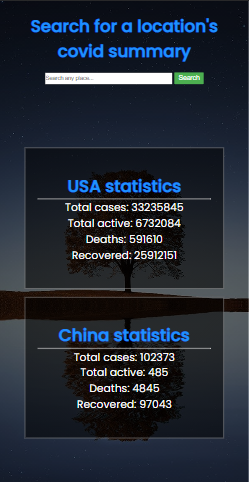
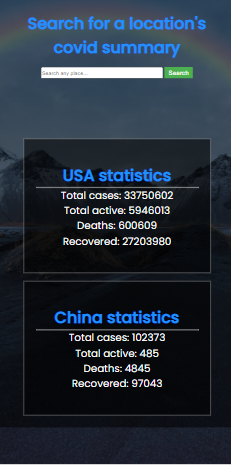
🖌🖌changed color and image
changed link color and background image for a project

diff --git a/css/style.css b/css/style.css
@@ -2,6 +2,7 @@
   --clr-neutral-900: hsl(207, 19%, 9%);
   --clr-neutral-100: hsl(0, 0%, 100%);
   --clr-neutral-400: hsl(142, 90%, 61%);
+  --clr-neutral-200: #f36b21;
 }
 
 /*global*/
@@ -154,8 +155,8 @@ a {
 ::-webkit-scrollbar-thumb {
   /*background-image: linear-gradient(#13547a 0%, #3db1a3 100%);*/
   border-radius: 10px;
-  background-color: #ff9c3c;
-  background-image: #ff9c3c;
+  background-color: var(--clr-neutral-200);
+  background-image: var(--clr-neutral-200);
 }
 
 /*end scroll bar*/
@@ -184,7 +185,7 @@ a {
   text-decoration: none;
 }
 .media-links .fab:hover {
-  color: #ff9c3c;
+  color: var(--clr-neutral-200);
 }
 .nav-tag-nav-bar .fab {
   font-size: 2rem;
@@ -193,7 +194,7 @@ a {
 }
 
 .navbar ul li a:hover {
-  background-color: #ff9c3c;
+  background-color: var(--clr-neutral-200);
   cursor: pointer;
   color: #f8f8f8;
 }

diff --git a/index.html b/index.html
@@ -141,7 +141,7 @@
 
     <section id="portfolio-link" class="wrapper-for-all-projects">
       <div class="portfolio-intro">
-        <h1>Portfolio</h1>
+        <h1>Projects</h1>
       </div>
       <div class="project-container">
         <div
